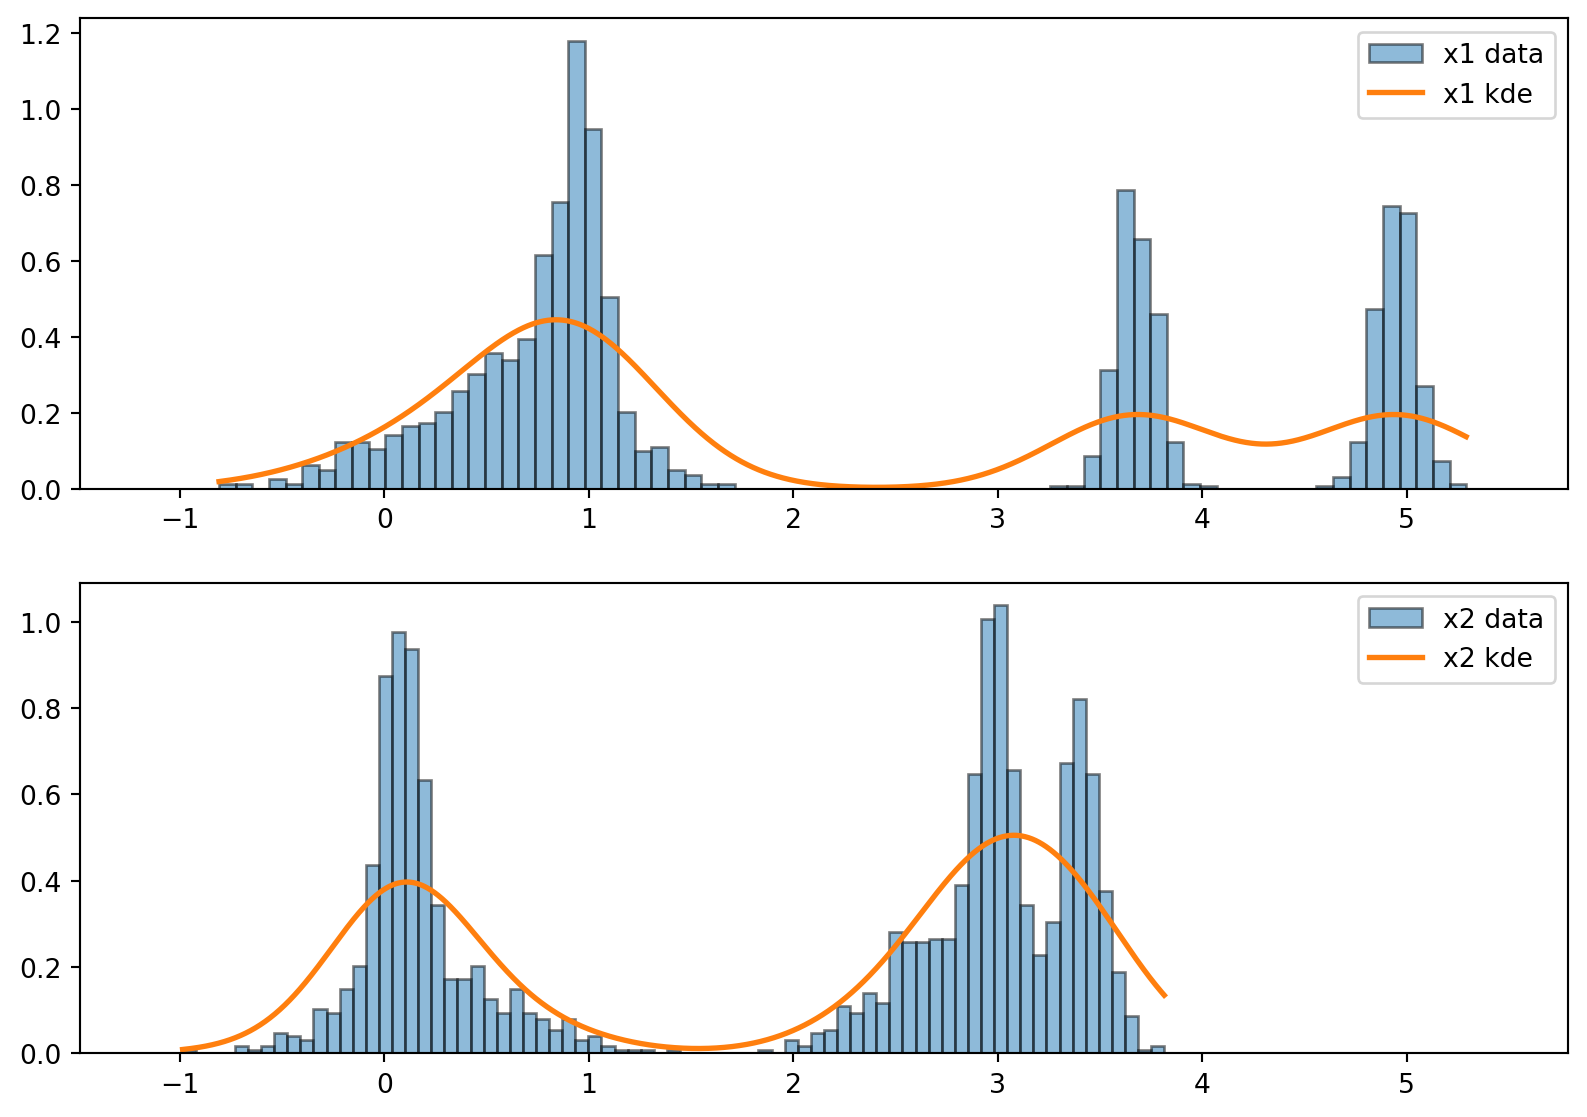
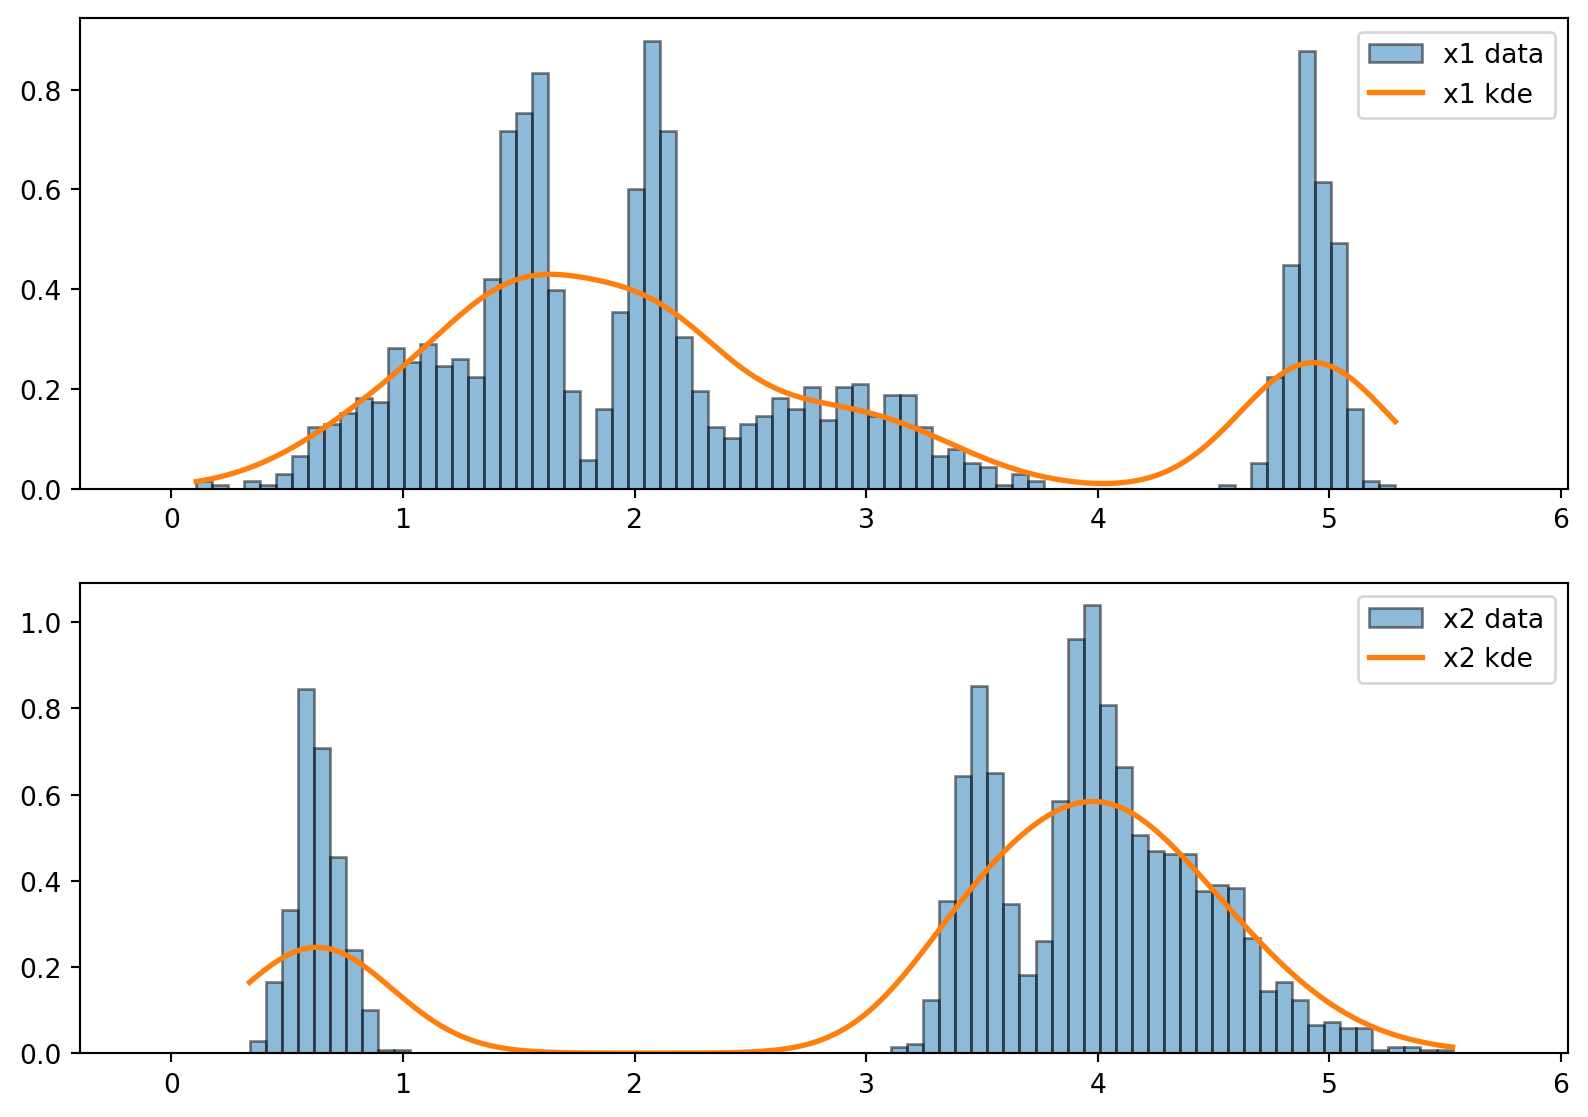
work on probability

diff --git a/docs/posts/Probability_Theory_and_Random_Variables/index.html b/docs/posts/Probability_Theory_and_Random_Variables/index.html
@@ -119,7 +119,7 @@ pre > code.sourceCode > span > a:first-child::before { text-decoration: underlin
             <ul class="navbar-nav navbar-nav-scroll ms-auto">
   <li class="nav-item">
     <a class="nav-link" href="../../about.html" rel="" target="">
- <span class="menu-text">About</span></a>
+ <span class="menu-text">Eric Jackson</span></a>
   </li>  
   <li class="nav-item compact">
     <a class="nav-link" href="https://github.com/ericj96" rel="" target=""><i class="bi bi-github" role="img">
@@ -193,9 +193,7 @@ pre > code.sourceCode > span > a:first-child::before { text-decoration: underlin
 <p>histogram of pdf</p>
 <section id="probability-theory" class="level2">
 <h2 class="anchored" data-anchor-id="probability-theory">Probability Theory</h2>
-<p>Utilizing a kernel density estimation (KDE) is one way to smooth as well as estimate the probability density function (PDF) of a random variable based on kernels as weights. The kernel density estimator is seen in the below equation:</p>
-<p><img src="Capture.JPG" class="img-fluid" width="376"></p>
-<p>As seen in <a href="#fig-hist">Figure&nbsp;1</a>, the plot of the kde function on the data closely follows the trend of the histogram for both x1 and x2 variables, which were generated randomly.</p>
+<p>One of the more realistic machine learning based scenarios to utilize probability theory methods on is random data. As seen in <a href="#fig-og">Figure&nbsp;1</a>, a set of 5 “blobs” are generated with random centers</p>
 <div class="cell" data-execution_count="1">
 <details>
 <summary>Setup code</summary>
@@ -211,38 +209,58 @@ pre > code.sourceCode > span > a:first-child::before { text-decoration: underlin
 <div class="cell" data-execution_count="2">
 <div class="sourceCode cell-code" id="cb2"><pre class="sourceCode python code-with-copy"><code class="sourceCode python"><span id="cb2-1"><a href="#cb2-1" aria-hidden="true" tabindex="-1"></a>blob_centers<span class="op">=</span>np.random.uniform(<span class="dv">0</span>,<span class="dv">5</span>,[<span class="dv">5</span>,<span class="dv">2</span>])</span>
 <span id="cb2-2"><a href="#cb2-2" aria-hidden="true" tabindex="-1"></a>blob_std <span class="op">=</span> np.array([<span class="fl">0.4</span>, <span class="fl">0.3</span>, <span class="fl">0.1</span>, <span class="fl">0.1</span>, <span class="fl">0.1</span>])</span>
-<span id="cb2-3"><a href="#cb2-3" aria-hidden="true" tabindex="-1"></a>x, y <span class="op">=</span> make_blobs(n_samples<span class="op">=</span><span class="dv">2000</span>, centers<span class="op">=</span>blob_centers, cluster_std<span class="op">=</span>blob_std,</span>
-<span id="cb2-4"><a href="#cb2-4" aria-hidden="true" tabindex="-1"></a>                  random_state<span class="op">=</span><span class="dv">7</span>)</span>
-<span id="cb2-5"><a href="#cb2-5" aria-hidden="true" tabindex="-1"></a>n_bins<span class="op">=</span><span class="dv">75</span></span>
-<span id="cb2-6"><a href="#cb2-6" aria-hidden="true" tabindex="-1"></a>data<span class="op">=</span>x[:,<span class="dv">1</span>]</span>
-<span id="cb2-7"><a href="#cb2-7" aria-hidden="true" tabindex="-1"></a>kde <span class="op">=</span> stats.gaussian_kde(data,bw_method<span class="op">=</span><span class="va">None</span>)</span>
-<span id="cb2-8"><a href="#cb2-8" aria-hidden="true" tabindex="-1"></a>t_range<span class="op">=</span>np.linspace(<span class="bu">min</span>(data),<span class="bu">max</span>(data),<span class="bu">len</span>(data))</span></code><button title="Copy to Clipboard" class="code-copy-button"><i class="bi"></i></button></pre></div>
+<span id="cb2-3"><a href="#cb2-3" aria-hidden="true" tabindex="-1"></a>x, y <span class="op">=</span> make_blobs(n_samples<span class="op">=</span><span class="dv">2000</span>, centers<span class="op">=</span>blob_centers, cluster_std<span class="op">=</span>blob_std,random_state<span class="op">=</span><span class="dv">7</span>)</span>
+<span id="cb2-4"><a href="#cb2-4" aria-hidden="true" tabindex="-1"></a>n_bins<span class="op">=</span><span class="dv">75</span></span>
+<span id="cb2-5"><a href="#cb2-5" aria-hidden="true" tabindex="-1"></a>data<span class="op">=</span>x[:,<span class="dv">1</span>]</span>
+<span id="cb2-6"><a href="#cb2-6" aria-hidden="true" tabindex="-1"></a>kde <span class="op">=</span> stats.gaussian_kde(data,bw_method<span class="op">=</span><span class="va">None</span>)</span>
+<span id="cb2-7"><a href="#cb2-7" aria-hidden="true" tabindex="-1"></a>t_range<span class="op">=</span>np.linspace(<span class="bu">min</span>(data),<span class="bu">max</span>(data),<span class="bu">len</span>(data))</span></code><button title="Copy to Clipboard" class="code-copy-button"><i class="bi"></i></button></pre></div>
 </div>
 <div class="cell" data-execution_count="3">
 <details>
-<summary>Plotting code</summary>
-<div class="sourceCode cell-code" id="cb3"><pre class="sourceCode python code-with-copy"><code class="sourceCode python"><span id="cb3-1"><a href="#cb3-1" aria-hidden="true" tabindex="-1"></a>fig, axs <span class="op">=</span> plt.subplots(<span class="dv">2</span>,<span class="dv">1</span>,figsize <span class="op">=</span>(<span class="dv">10</span>, <span class="dv">7</span>))</span>
-<span id="cb3-2"><a href="#cb3-2" aria-hidden="true" tabindex="-1"></a>ax1<span class="op">=</span>plt.subplot(<span class="dv">211</span>)</span>
-<span id="cb3-3"><a href="#cb3-3" aria-hidden="true" tabindex="-1"></a>ax1.hist(data, n_bins, alpha<span class="op">=</span><span class="fl">0.5</span>,density<span class="op">=</span><span class="dv">1</span>,label<span class="op">=</span><span class="st">'x1 data'</span>,edgecolor<span class="op">=</span><span class="st">'black'</span>)<span class="op">;</span></span>
-<span id="cb3-4"><a href="#cb3-4" aria-hidden="true" tabindex="-1"></a>ax1.plot(t_range,kde(t_range),lw<span class="op">=</span><span class="dv">2</span>, label<span class="op">=</span><span class="st">'x1 kde'</span>)</span>
-<span id="cb3-5"><a href="#cb3-5" aria-hidden="true" tabindex="-1"></a>plt.xlim(x.<span class="bu">min</span>()<span class="op">-</span><span class="fl">.5</span>,x.<span class="bu">max</span>()<span class="op">+</span><span class="fl">.5</span>)</span>
-<span id="cb3-6"><a href="#cb3-6" aria-hidden="true" tabindex="-1"></a>ax1.legend(loc<span class="op">=</span><span class="st">'best'</span>)</span>
-<span id="cb3-7"><a href="#cb3-7" aria-hidden="true" tabindex="-1"></a>ax2<span class="op">=</span>plt.subplot(<span class="dv">212</span>)</span>
-<span id="cb3-8"><a href="#cb3-8" aria-hidden="true" tabindex="-1"></a>data<span class="op">=</span>x[:,<span class="dv">0</span>]</span>
-<span id="cb3-9"><a href="#cb3-9" aria-hidden="true" tabindex="-1"></a>kde <span class="op">=</span> stats.gaussian_kde(data,bw_method<span class="op">=</span><span class="va">None</span>)</span>
-<span id="cb3-10"><a href="#cb3-10" aria-hidden="true" tabindex="-1"></a>t_range<span class="op">=</span>np.linspace(<span class="bu">min</span>(data),<span class="bu">max</span>(data),<span class="bu">len</span>(data))</span>
-<span id="cb3-11"><a href="#cb3-11" aria-hidden="true" tabindex="-1"></a>ax2.hist(data, n_bins, alpha<span class="op">=</span><span class="fl">0.5</span>,density<span class="op">=</span><span class="dv">1</span>,label<span class="op">=</span><span class="st">'x2 data'</span>,edgecolor<span class="op">=</span><span class="st">'black'</span>)<span class="op">;</span></span>
-<span id="cb3-12"><a href="#cb3-12" aria-hidden="true" tabindex="-1"></a>ax2.plot(t_range,kde(t_range),lw<span class="op">=</span><span class="dv">2</span>, label<span class="op">=</span><span class="st">'x2 kde'</span>)</span>
-<span id="cb3-13"><a href="#cb3-13" aria-hidden="true" tabindex="-1"></a></span>
-<span id="cb3-14"><a href="#cb3-14" aria-hidden="true" tabindex="-1"></a>ax2.legend(loc<span class="op">=</span><span class="st">'best'</span>)</span>
-<span id="cb3-15"><a href="#cb3-15" aria-hidden="true" tabindex="-1"></a>plt.xlim(x.<span class="bu">min</span>()<span class="op">-</span><span class="fl">.5</span>,x.<span class="bu">max</span>()<span class="op">+</span><span class="fl">.5</span>)</span>
-<span id="cb3-16"><a href="#cb3-16" aria-hidden="true" tabindex="-1"></a>plt.show()</span></code><button title="Copy to Clipboard" class="code-copy-button"><i class="bi"></i></button></pre></div>
+<summary>Plotting original data code</summary>
+<div class="sourceCode cell-code" id="cb3"><pre class="sourceCode python code-with-copy"><code class="sourceCode python"><span id="cb3-1"><a href="#cb3-1" aria-hidden="true" tabindex="-1"></a>fig, axs <span class="op">=</span> plt.subplots(figsize <span class="op">=</span>(<span class="dv">9</span>, <span class="dv">6</span>))</span>
+<span id="cb3-2"><a href="#cb3-2" aria-hidden="true" tabindex="-1"></a>plt.scatter(x[:,<span class="dv">0</span>],x[:,<span class="dv">1</span>])</span>
+<span id="cb3-3"><a href="#cb3-3" aria-hidden="true" tabindex="-1"></a>plt.xlabel(<span class="st">'$x_</span><span class="sc">{1}</span><span class="st">$'</span>)</span>
+<span id="cb3-4"><a href="#cb3-4" aria-hidden="true" tabindex="-1"></a>plt.ylabel(<span class="st">'$x_</span><span class="sc">{2}</span><span class="st">$'</span>)</span>
+<span id="cb3-5"><a href="#cb3-5" aria-hidden="true" tabindex="-1"></a>plt.show()</span></code><button title="Copy to Clipboard" class="code-copy-button"><i class="bi"></i></button></pre></div>
+</details>
+<div class="cell-output cell-output-display">
+<div id="fig-og" class="quarto-figure quarto-figure-center anchored">
+<figure class="figure">
+<p><img src="index_files/figure-html/fig-og-output-1.png" width="725" height="503" class="figure-img"></p>
+<figcaption class="figure-caption">Figure&nbsp;1: Plot of random data contained to five blobs</figcaption>
+</figure>
+</div>
+</div>
+</div>
+<p>When working with non-normal or non-uniform data, it is hard to fit a normal distribution curve to it. Utilizing a kernel density estimation (KDE) is one way to smooth as well as estimate the probability density function (PDF) of a random variable based on kernels as weights. The kernel density estimator is seen in the below equation:</p>
+<p><img src="Capture.JPG" class="img-fluid" width="376"></p>
+<p>As seen in <a href="#fig-hist">Figure&nbsp;2</a>, the plot of the kde function on the data closely follows the trend of the histogram for both x1 and x2 variables, which were generated randomly.</p>
+<div class="cell" data-execution_count="4">
+<details>
+<summary>Plotting kde and histogram code</summary>
+<div class="sourceCode cell-code" id="cb4"><pre class="sourceCode python code-with-copy"><code class="sourceCode python"><span id="cb4-1"><a href="#cb4-1" aria-hidden="true" tabindex="-1"></a>fig, axs <span class="op">=</span> plt.subplots(<span class="dv">2</span>,<span class="dv">1</span>,figsize <span class="op">=</span>(<span class="dv">10</span>, <span class="dv">7</span>))</span>
+<span id="cb4-2"><a href="#cb4-2" aria-hidden="true" tabindex="-1"></a>ax1<span class="op">=</span>plt.subplot(<span class="dv">211</span>)</span>
+<span id="cb4-3"><a href="#cb4-3" aria-hidden="true" tabindex="-1"></a>ax1.hist(data, n_bins, alpha<span class="op">=</span><span class="fl">0.5</span>,density<span class="op">=</span><span class="dv">1</span>,label<span class="op">=</span><span class="st">'x1 data'</span>,edgecolor<span class="op">=</span><span class="st">'black'</span>)<span class="op">;</span></span>
+<span id="cb4-4"><a href="#cb4-4" aria-hidden="true" tabindex="-1"></a>ax1.plot(t_range,kde(t_range),lw<span class="op">=</span><span class="dv">2</span>, label<span class="op">=</span><span class="st">'x1 kde'</span>)</span>
+<span id="cb4-5"><a href="#cb4-5" aria-hidden="true" tabindex="-1"></a>plt.xlim(x.<span class="bu">min</span>()<span class="op">-</span><span class="fl">.5</span>,x.<span class="bu">max</span>()<span class="op">+</span><span class="fl">.5</span>)</span>
+<span id="cb4-6"><a href="#cb4-6" aria-hidden="true" tabindex="-1"></a>ax1.legend(loc<span class="op">=</span><span class="st">'best'</span>)</span>
+<span id="cb4-7"><a href="#cb4-7" aria-hidden="true" tabindex="-1"></a>ax2<span class="op">=</span>plt.subplot(<span class="dv">212</span>)</span>
+<span id="cb4-8"><a href="#cb4-8" aria-hidden="true" tabindex="-1"></a>data<span class="op">=</span>x[:,<span class="dv">0</span>]</span>
+<span id="cb4-9"><a href="#cb4-9" aria-hidden="true" tabindex="-1"></a>kde <span class="op">=</span> stats.gaussian_kde(data,bw_method<span class="op">=</span><span class="va">None</span>)</span>
+<span id="cb4-10"><a href="#cb4-10" aria-hidden="true" tabindex="-1"></a>t_range<span class="op">=</span>np.linspace(<span class="bu">min</span>(data),<span class="bu">max</span>(data),<span class="bu">len</span>(data))</span>
+<span id="cb4-11"><a href="#cb4-11" aria-hidden="true" tabindex="-1"></a>ax2.hist(data, n_bins, alpha<span class="op">=</span><span class="fl">0.5</span>,density<span class="op">=</span><span class="dv">1</span>,label<span class="op">=</span><span class="st">'x2 data'</span>,edgecolor<span class="op">=</span><span class="st">'black'</span>)<span class="op">;</span></span>
+<span id="cb4-12"><a href="#cb4-12" aria-hidden="true" tabindex="-1"></a>ax2.plot(t_range,kde(t_range),lw<span class="op">=</span><span class="dv">2</span>, label<span class="op">=</span><span class="st">'x2 kde'</span>)</span>
+<span id="cb4-13"><a href="#cb4-13" aria-hidden="true" tabindex="-1"></a></span>
+<span id="cb4-14"><a href="#cb4-14" aria-hidden="true" tabindex="-1"></a>ax2.legend(loc<span class="op">=</span><span class="st">'best'</span>)</span>
+<span id="cb4-15"><a href="#cb4-15" aria-hidden="true" tabindex="-1"></a>plt.xlim(x.<span class="bu">min</span>()<span class="op">-</span><span class="fl">.5</span>,x.<span class="bu">max</span>()<span class="op">+</span><span class="fl">.5</span>)</span>
+<span id="cb4-16"><a href="#cb4-16" aria-hidden="true" tabindex="-1"></a>plt.show()</span></code><button title="Copy to Clipboard" class="code-copy-button"><i class="bi"></i></button></pre></div>
 </details>
 <div class="cell-output cell-output-display">
 <div id="fig-hist" class="quarto-figure quarto-figure-center anchored">
 <figure class="figure">
 <p><img src="index_files/figure-html/fig-hist-output-1.png" width="794" height="559" class="figure-img"></p>
-<figcaption class="figure-caption">Figure&nbsp;1: Histogram and KDE of data</figcaption>
+<figcaption class="figure-caption">Figure&nbsp;2: Histogram and KDE of data</figcaption>
 </figure>
 </div>
 </div>

diff --git a/docs/about.html b/docs/about.html
@@ -7,7 +7,7 @@
 <meta name="viewport" content="width=device-width, initial-scale=1.0, user-scalable=yes">
 
 
-<title>Fall 2023 CS 5805 Blog - About</title>
+<title>Fall 2023 CS 5805 Blog - About: Eric Jackson</title>
 <style>
 code{white-space: pre-wrap;}
 span.smallcaps{font-variant: small-caps;}
@@ -82,7 +82,7 @@ ul.task-list li input[type="checkbox"] {
             <ul class="navbar-nav navbar-nav-scroll ms-auto">
   <li class="nav-item">
     <a class="nav-link active" href="./about.html" rel="" target="" aria-current="page">
- <span class="menu-text">About</span></a>
+ <span class="menu-text">About: Eric Jackson</span></a>
   </li>  
   <li class="nav-item compact">
     <a class="nav-link" href="https://github.com/ericj96" rel="" target=""><i class="bi bi-github" role="img">
@@ -107,12 +107,12 @@ ul.task-list li input[type="checkbox"] {
   round " style="height: 15em; width: 15em;">
  <header id="title-block-header" class="quarto-title-block default">
 <div class="quarto-title">
-<h1 class="title">About</h1>
+<h1 class="title">About: Eric Jackson</h1>
 </div>
 <div class="quarto-title-meta">
   </div>
 </header><main class="content" id="quarto-document-content">
-<p>About this blog</p>
+<p>I am a current graduate student at Virginia Tech working on my MS in Aerospace Engineering. I also work full time at Lockheed Martin as a space systems engineer.</p>
 
 
 </main> 

diff --git a/docs/index.html b/docs/index.html
@@ -116,7 +116,7 @@ ul.task-list li input[type="checkbox"] {
             <ul class="navbar-nav navbar-nav-scroll ms-auto">
   <li class="nav-item">
     <a class="nav-link" href="./about.html" rel="" target="">
- <span class="menu-text">About</span></a>
+ <span class="menu-text">Eric Jackson</span></a>
   </li>  
   <li class="nav-item compact">
     <a class="nav-link" href="https://github.com/ericj96" rel="" target=""><i class="bi bi-github" role="img">
@@ -288,7 +288,7 @@ Eric Jackson
 </a>
 </div>
 </div>
-<div class="quarto-post image-right" data-index="3" data-categories="code,analysis" data-listing-date-sort="1696230000000" data-listing-file-modified-sort="1699850343484" data-listing-date-modified-sort="NaN" data-listing-reading-time-sort="1">
+<div class="quarto-post image-right" data-index="3" data-categories="code,analysis" data-listing-date-sort="1696230000000" data-listing-file-modified-sort="1699854435256" data-listing-date-modified-sort="NaN" data-listing-reading-time-sort="2">
 <div class="thumbnail">
 <p><a href="./posts/Probability_Theory_and_Random_Variables/index.html"> <img src="./posts/Probability_Theory_and_Random_Variables/image.jpg" class="thumbnail-image"> </a></p>
 </div>
